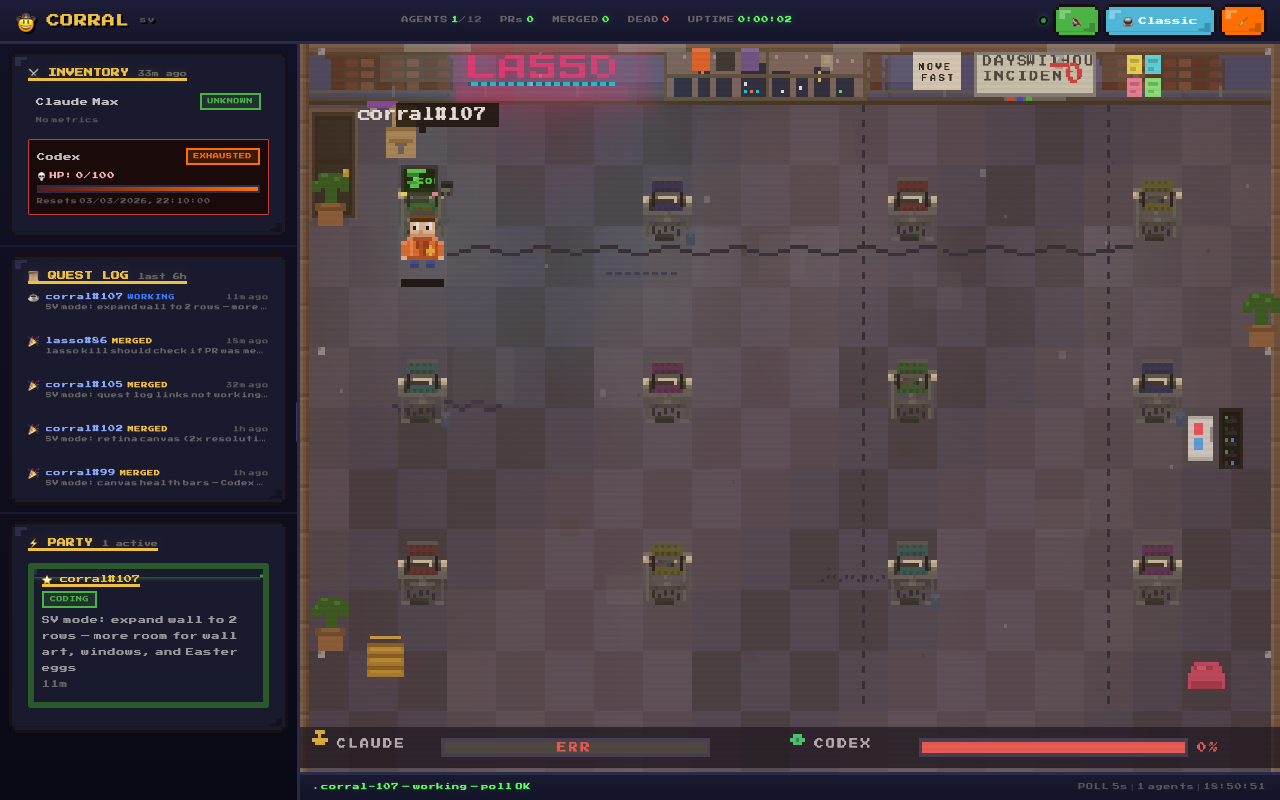
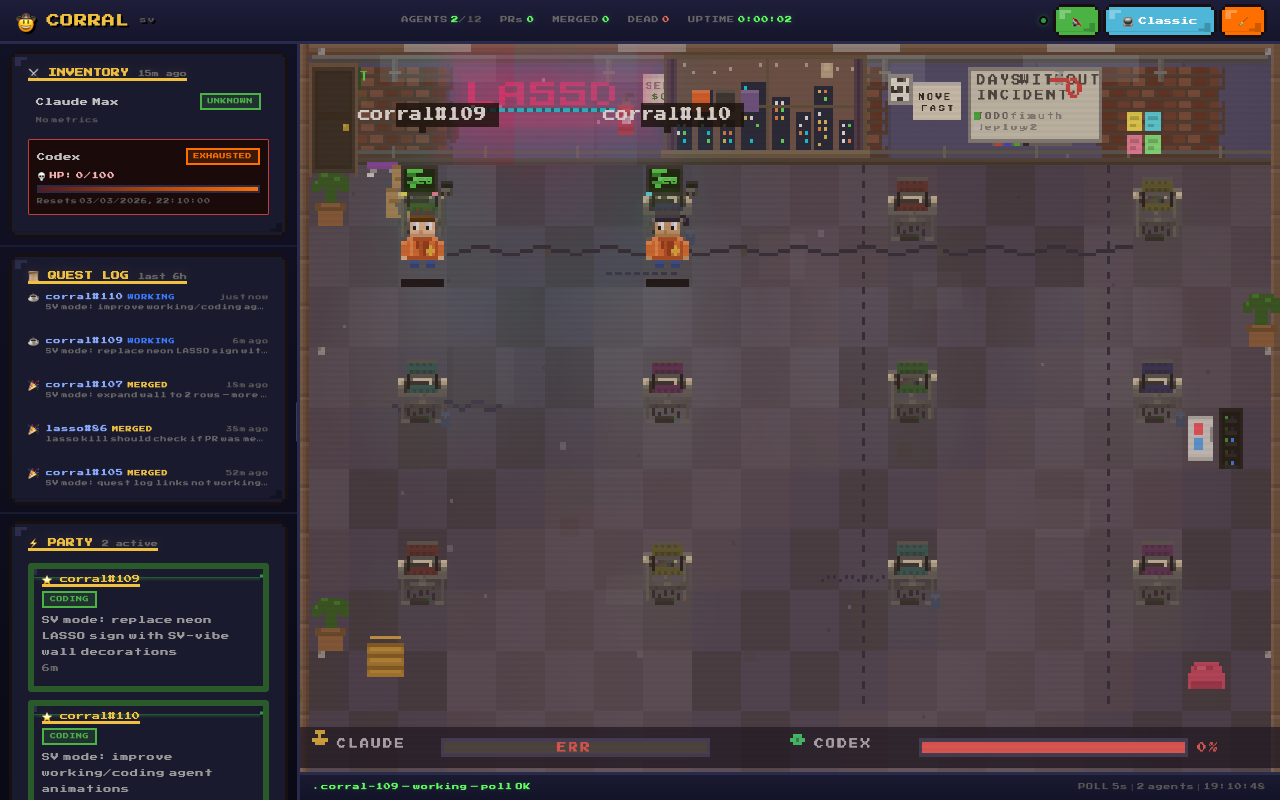
Replace neon LASSO sign with HACK sign and SV wall decorations (#111)
- Replace LASSO letter pixel data with HACK in drawNeonSign()
- Adjust neon glow dimensions for narrower sign (38px vs 48px)
- Update sparkle particle positions for new sign width
- Update wall bleed lighting extents in drawLightingSV()
- Add guitar hanging on wall, dart board, and ping pong paddle+ball

diff --git a/sv.html b/sv.html
@@ -1660,11 +1660,11 @@ const particles = [];
       size: 1 + (Math.random() > 0.7 ? 1 : 0),
     });
   }
-  // Neon sparkles — 4 slots near the LASSO sign (nx=55, ny=10)
+  // Neon sparkles — 4 slots near the HACK sign (nx=55, ny=10)
   for (let i = 0; i < 4; i++) {
     particles.push({
       type: 'sparkle',
-      x: 55 + Math.random() * 48,
+      x: 55 + Math.random() * 38,
       y: 8 + Math.random() * 14,
       life: 0,
       maxLife: 40 + Math.random() * 40,
@@ -1992,18 +1992,17 @@ function drawNeonSign() {
   // Glow radius and intensity increase at night
   const glowMult = 1 + nightFactor * 1.5;
   const maxR = Math.round(8 * glowMult);
-  for (let r = maxR; r > 0; r -= 2) R(nx-r, ny-r, 56+r*2, 10+r*2, 'rgba(255,45,123,' + (0.008 * glowMult * (maxR-r) / maxR * 8).toFixed(4) + ')');
-  const L = [[0,0],[0,1],[0,2],[0,3],[0,4],[0,5],[1,5],[2,5],[3,5]];
-  const A = [[5,1],[5,2],[5,3],[5,4],[5,5],[6,0],[7,0],[8,0],[8,1],[8,2],[8,3],[8,4],[8,5],[6,3],[7,3]];
-  const S1 = [[10,0],[11,0],[12,0],[13,0],[10,1],[10,2],[11,2],[12,2],[13,2],[13,3],[13,4],[10,5],[11,5],[12,5],[13,5],[10,4]];
-  const S2 = S1.map(([x,y]) => [x+5, y]);
-  const O = [[20,0],[21,0],[22,0],[20,1],[23,1],[20,2],[23,2],[20,3],[23,3],[20,4],[23,4],[21,5],[22,5]];
-  [L, A, S1, S2, O].forEach(letter => { letter.forEach(([lx, ly]) => R(nx+lx*2, ny+ly, 2, 1, PAL.neonPink)); });
-  R(nx, ny+7, 48, 1, PAL.neonCyan);
-  for (let i = 0; i < 48; i += 3) R(nx+i, ny+7, 1, 1, '#005a6a');
+  for (let r = maxR; r > 0; r -= 2) R(nx-r, ny-r, 46+r*2, 10+r*2, 'rgba(255,45,123,' + (0.008 * glowMult * (maxR-r) / maxR * 8).toFixed(4) + ')');
+  const H = [[0,0],[0,1],[0,2],[0,3],[0,4],[0,5],[3,0],[3,1],[3,2],[3,3],[3,4],[3,5],[1,2],[2,2]];
+  const A = [[6,0],[7,0],[5,1],[5,2],[5,3],[5,4],[5,5],[8,1],[8,2],[8,3],[8,4],[8,5],[6,3],[7,3]];
+  const C = [[11,0],[12,0],[13,0],[10,1],[10,2],[10,3],[10,4],[11,5],[12,5],[13,5]];
+  const K = [[15,0],[15,1],[15,2],[15,3],[15,4],[15,5],[18,0],[17,1],[16,2],[16,3],[17,4],[18,5]];
+  [H, A, C, K].forEach(letter => { letter.forEach(([lx, ly]) => R(nx+lx*2, ny+ly, 2, 1, PAL.neonPink)); });
+  R(nx, ny+7, 38, 1, PAL.neonCyan);
+  for (let i = 0; i < 38; i += 3) R(nx+i, ny+7, 1, 1, '#005a6a');
   // Stronger underglow at night
   const underGlowAlpha = (0.12 + nightFactor * 0.15).toFixed(3);
-  R(nx-4, ny+8, 56, 4, 'rgba(255,45,123,' + underGlowAlpha + ')');
+  R(nx-4, ny+8, 46, 4, 'rgba(255,45,123,' + underGlowAlpha + ')');
   ctx.restore();
 }
 
@@ -2658,6 +2657,45 @@ function drawWallsSV() {
   R(ocX + 1, ocY - 1, 2, 1, '#333'); // head
   R(ocX, ocY - 1, 1, 1, '#333'); R(ocX + 3, ocY - 1, 1, 1, '#333'); // ears
   R(ocX + 1, ocY + 3, 1, 1, '#333'); R(ocX + 2, ocY + 3, 1, 1, '#333'); // legs
+
+  // --- SV wall decorations ---
+
+  // Guitar hanging on wall
+  const gX = 96, gY = 7;
+  R(gX + 1, gY - 1, 2, 1, '#666'); // wall hook
+  R(gX, gY, 4, 2, '#5a3a1a'); // headstock
+  R(gX, gY, 1, 1, '#aaa'); R(gX + 3, gY + 1, 1, 1, '#aaa'); // tuning pegs
+  R(gX + 1, gY + 2, 2, 5, '#8B5A2B'); // neck
+  R(gX + 1, gY + 3, 2, 1, '#bbb'); R(gX + 1, gY + 5, 2, 1, '#bbb'); // frets
+  R(gX - 1, gY + 7, 6, 5, '#C68642'); // body
+  R(gX, gY + 7, 4, 1, '#daa060'); // body highlight
+  R(gX + 1, gY + 9, 2, 2, '#3a2010'); // sound hole
+  R(gX - 1, gY + 11, 6, 1, '#a07030'); // body shadow
+
+  // Dart board
+  const dbX = 60, dbY = 20;
+  R(dbX + 1, dbY, 6, 1, '#1a5a1a'); // top edge
+  R(dbX, dbY + 1, 8, 6, '#1a5a1a'); // outer ring
+  R(dbX + 1, dbY + 7, 6, 1, '#1a5a1a'); // bottom edge
+  R(dbX + 2, dbY + 1, 4, 1, '#cc2222'); // inner top
+  R(dbX + 1, dbY + 2, 6, 4, '#cc2222'); // inner ring
+  R(dbX + 2, dbY + 6, 4, 1, '#cc2222'); // inner bottom
+  R(dbX + 2, dbY + 2, 4, 4, '#eee'); // white ring
+  R(dbX + 3, dbY + 3, 2, 2, '#cc2222'); // bullseye
+  R(dbX + 5, dbY + 2, 1, 1, '#ffcc00'); // dart tip
+  R(dbX + 6, dbY + 1, 2, 1, '#888'); // dart shaft
+  R(dbX + 7, dbY, 1, 1, '#ff4444'); R(dbX + 7, dbY + 2, 1, 1, '#ff4444'); // dart flights
+
+  // Ping pong paddle + ball mounted on wall
+  const ppX = 74, ppY = 20;
+  R(ppX, ppY, 5, 6, '#cc3333'); // paddle face
+  R(ppX, ppY, 5, 1, '#dd4444'); // paddle highlight
+  R(ppX + 1, ppY + 1, 3, 4, '#ee4444'); // paddle center
+  R(ppX + 2, ppY + 6, 1, 3, '#8B4513'); // handle
+  R(ppX + 1, ppY + 6, 3, 1, '#7a3a0a'); // handle collar
+  R(ppX + 7, ppY + 1, 2, 2, '#fff'); // ball
+  R(ppX + 7, ppY + 1, 1, 1, '#ff8800'); // ball stripe
+
   ctx.restore();
 }
 
@@ -2981,25 +3019,25 @@ function drawPropsSV() {
 function drawLightingSV() {
   const { nightFactor, warmFactor, hour } = getTimeOfDay();
   // Neon sign extended glow on nearby walls/floor — larger radius, stronger at night
-  const neonCX = (55 + 24) * SCALE;
+  const neonCX = (55 + 19) * SCALE;
   const neonCY = 12 * SCALE;
   const neonAlpha1 = (0.09 + nightFactor * 0.10).toFixed(3);
   const neonAlpha2 = (0.04 + nightFactor * 0.06).toFixed(3);
-  const neonGrad = ctx.createRadialGradient(neonCX, neonCY, 16, neonCX, neonCY + 180, 360);
+  const neonGrad = ctx.createRadialGradient(neonCX, neonCY, 16, neonCX, neonCY + 180, 320);
   neonGrad.addColorStop(0, 'rgba(255,45,123,' + neonAlpha1 + ')');
   neonGrad.addColorStop(0.4, 'rgba(0,229,255,' + neonAlpha2 + ')');
   neonGrad.addColorStop(1, 'rgba(0,0,0,0)');
   ctx.fillStyle = neonGrad;
-  ctx.fillRect(neonCX - 360, neonCY - 40, 720, 480);
+  ctx.fillRect(neonCX - 320, neonCY - 40, 640, 420);
   // Neon color bleed onto nearby wall tiles (cyan/pink tint)
   ctx.save(); ctx.scale(SCALE, SCALE);
   const wallBleedAlpha = (0.04 + nightFactor * 0.06).toFixed(3);
   ctx.fillStyle = 'rgba(255,45,123,' + wallBleedAlpha + ')';
-  ctx.fillRect(50, 0, 20, TILE * 2);
+  ctx.fillRect(50, 0, 18, TILE * 2);
   ctx.fillStyle = 'rgba(0,229,255,' + wallBleedAlpha + ')';
-  ctx.fillRect(70, 0, 40, TILE * 2);
+  ctx.fillRect(68, 0, 30, TILE * 2);
   ctx.fillStyle = 'rgba(255,45,123,' + (parseFloat(wallBleedAlpha) * 0.5).toFixed(3) + ')';
-  ctx.fillRect(90, 0, 20, TILE * 2);
+  ctx.fillRect(85, 0, 15, TILE * 2);
   ctx.restore();
 
   // Fluorescent ceiling light glow pools on floor — brighter at night, with flicker
@@ -3077,7 +3115,7 @@ function drawParticles() {
       p.life++;
       if (p.life >= p.maxLife) {
         // Respawn at random position near neon sign
-        p.x = 55 + Math.random() * 48;
+        p.x = 55 + Math.random() * 38;
         p.y = 8 + Math.random() * 14;
         p.life = 0;
         p.maxLife = 40 + Math.random() * 40;
